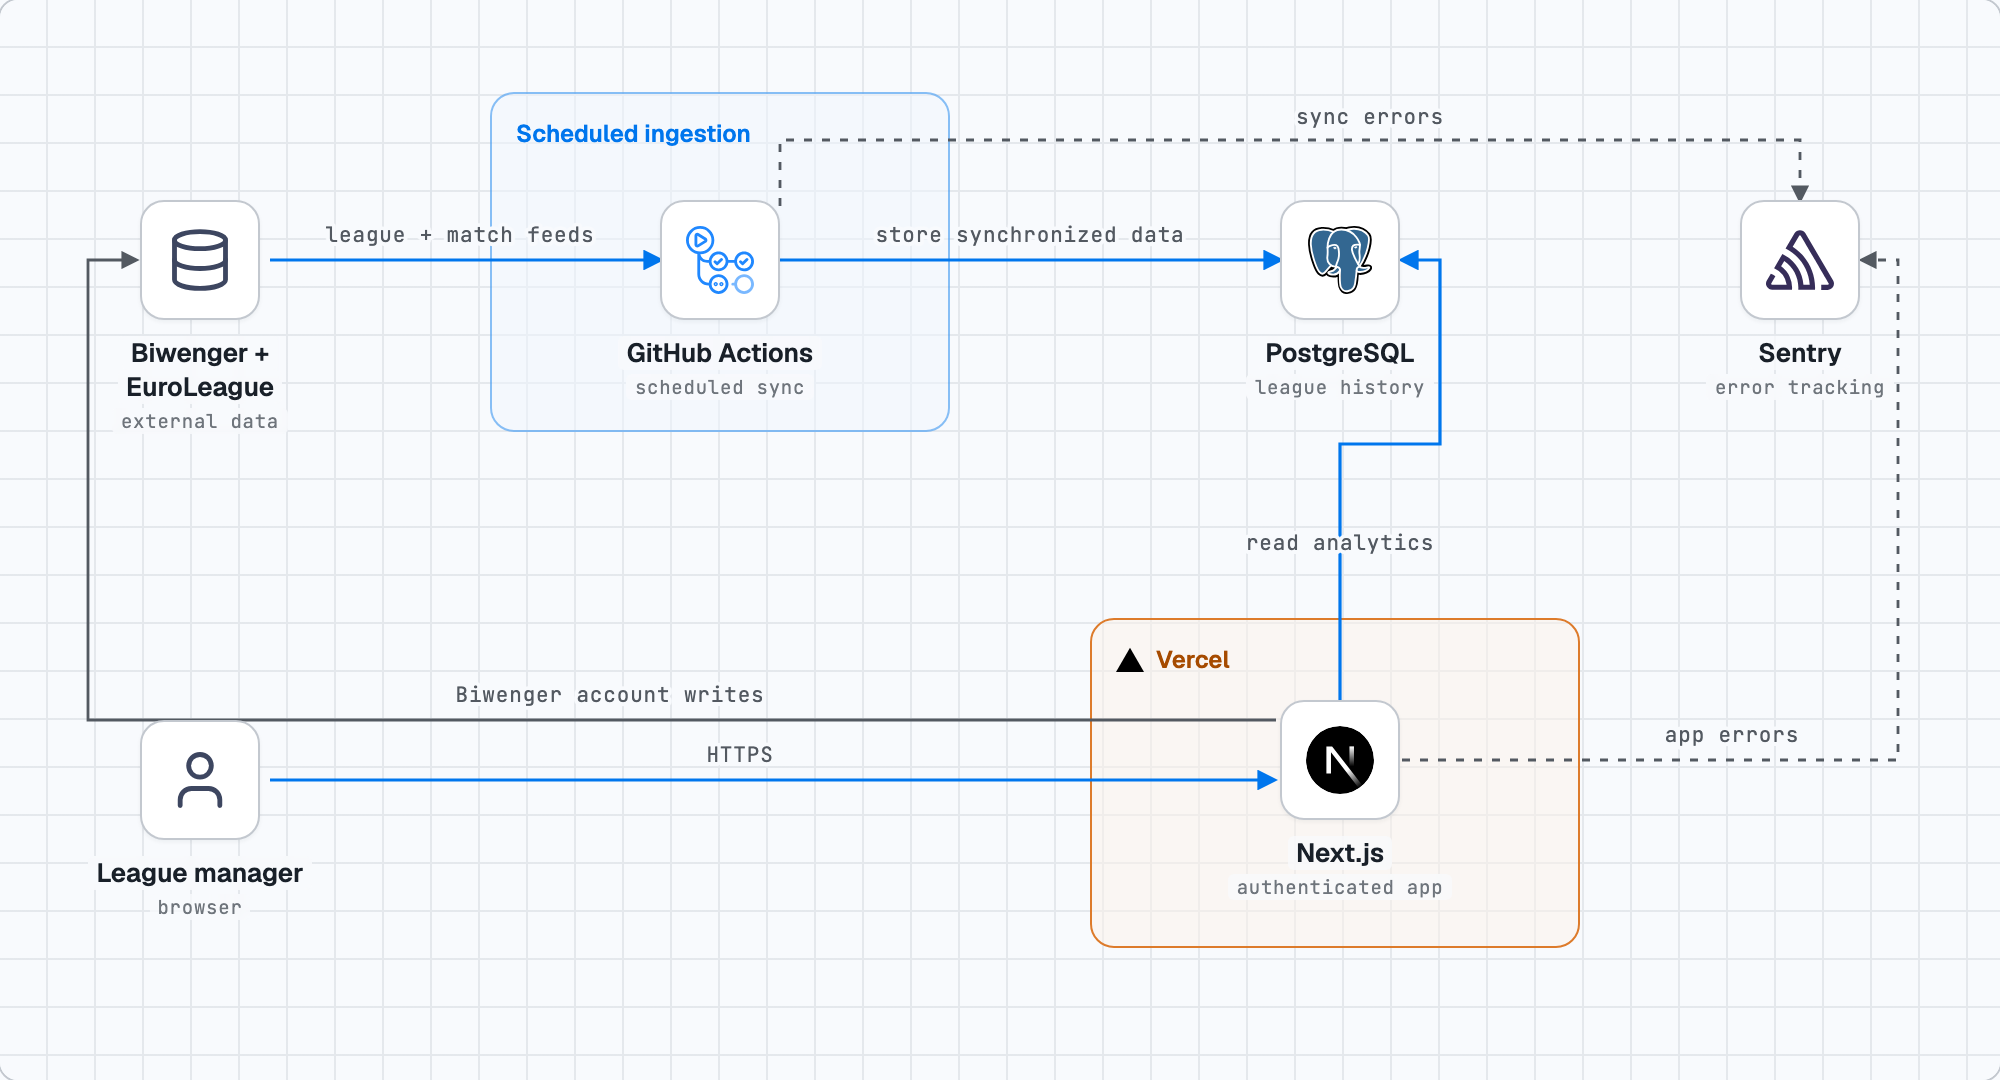
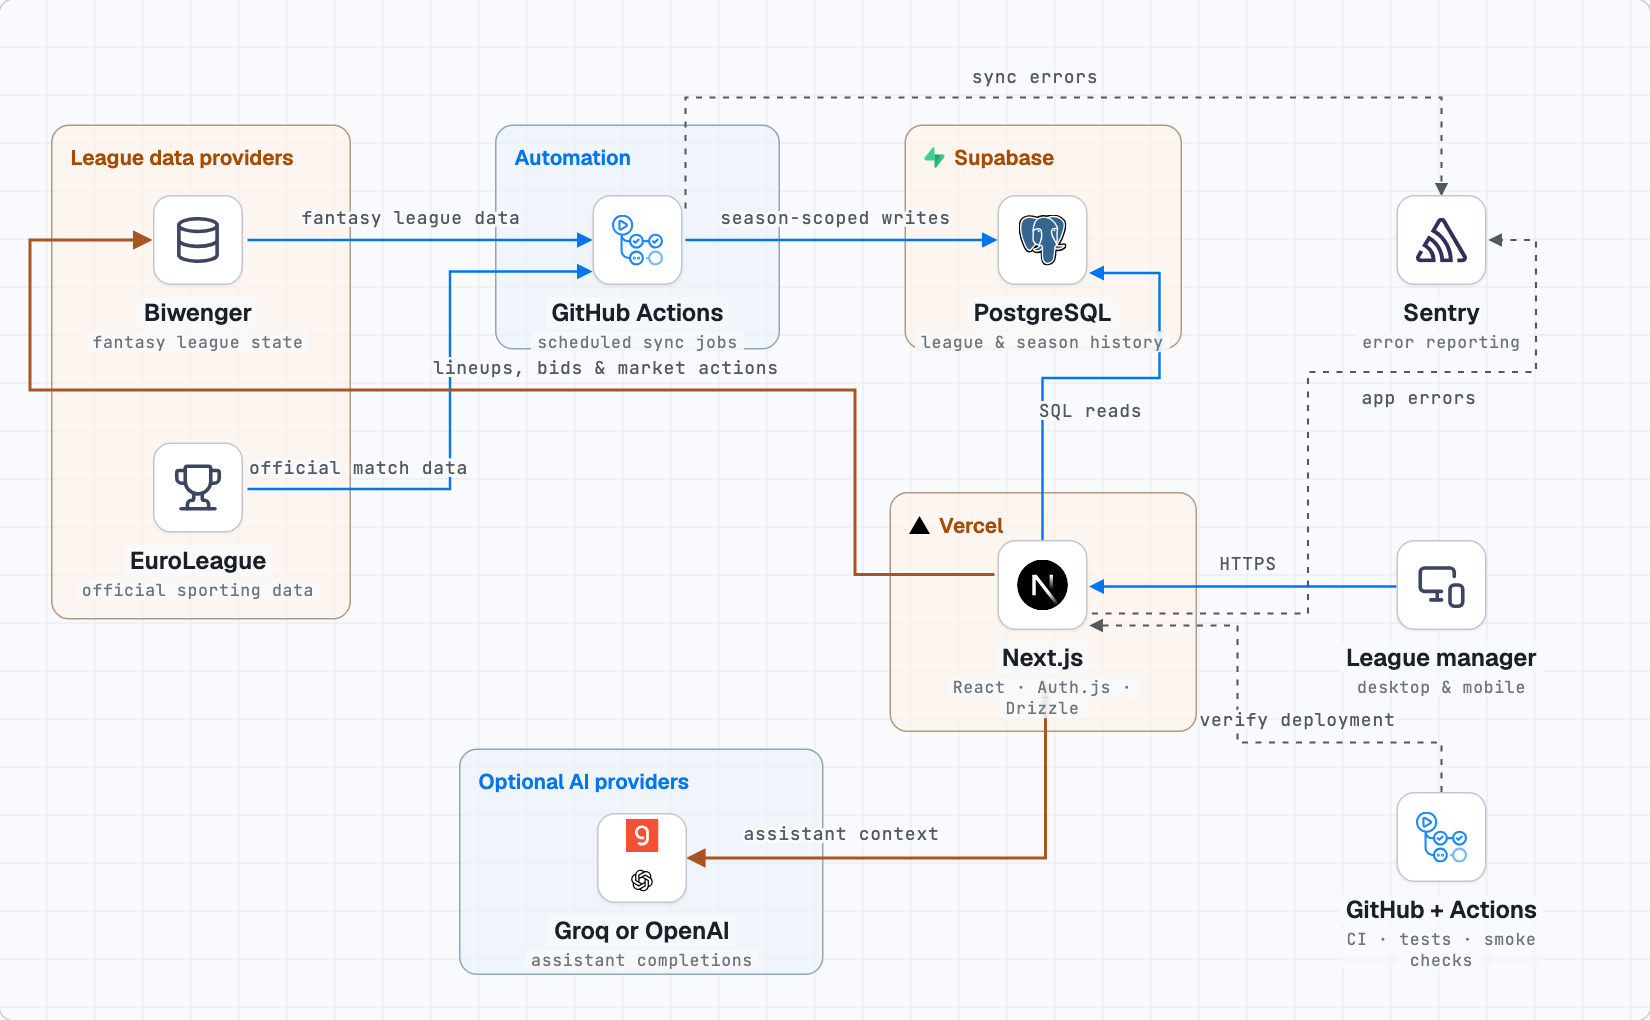
Showcase the product and full stack in the README

diff --git a/docs/_assets/stack.html b/docs/_assets/stack.html
@@ -3,7 +3,7 @@
 <head>
 <meta charset="UTF-8">
 <meta name="viewport" content="width=device-width, initial-scale=1.0">
-<title>Biwenger Stats stack</title>
+<title>Biwenger Stats · system architecture</title>
 <style>
 /* engineered-paper theme (cool near-white, one accent, mono labels)
  * All colors/fonts flow through the :root tokens — tweak tokens, not scattered values. */
@@ -82,7 +82,7 @@ h1 { font-family: var(--font-display); font-weight: 700; font-size: clamp(22px, 
 
 .scroller { overflow-x: auto; border: 1px solid var(--color-rule-2); border-radius: var(--radius-card); }
 /* CANVAS SIZE: set width/height here AND on svg.edges AND its viewBox — keep the three in sync */
-.canvas { position: relative; width: 1000px; height: 540px; background: var(--color-paper);
+.canvas { position: relative; width: 1100px; height: 680px; background: var(--color-paper);
   background-image:
     linear-gradient(var(--color-rule) 1px, transparent 1px),
     linear-gradient(90deg, var(--color-rule) 1px, transparent 1px);
@@ -127,7 +127,7 @@ h1 { font-family: var(--font-display); font-weight: 700; font-size: clamp(22px, 
 .group.azure.subnet { border:1px solid #A4CBFB; }
 .group.azure.zone { border-color:#FFD965; }
 
-.node { position:absolute; width:132px; text-align:center; }
+.node { position:absolute; width:174px; text-align:center; }
 .tile { width:60px; height:60px; margin:0 auto; border-radius: var(--radius-tile);
   background:#fff; border:1px solid var(--color-rule-2); display:grid; place-items:center;
   box-shadow: 0 1px 2px oklch(24% 0.02 258 / 0.05); transition: border-color .15s cubic-bezier(0.16,1,0.3,1); }
@@ -145,11 +145,11 @@ h1 { font-family: var(--font-display); font-weight: 700; font-size: clamp(22px, 
 .node .name span, .node .role span { background: var(--color-veil); backdrop-filter: blur(1.5px);
   padding: 0 var(--space-xs); border-radius: 3px; -webkit-box-decoration-break: clone; box-decoration-break: clone; }
 
-svg.edges { position:absolute; inset:0; width:1000px; height:540px; pointer-events:none; }
+svg.edges { position:absolute; inset:0; width:1100px; height:680px; pointer-events:none; }
 .e  { stroke: var(--color-accent); stroke-width:1.6; fill:none; }   /* primary flow */
 .n  { stroke: var(--color-neutral); stroke-width:1.4; fill:none; }  /* internal */
 path.aws { stroke: var(--color-ink); stroke-width:1.6; fill:none; }
-.dash { stroke-dasharray:4 5; }                                     /* error reporting */
+.dash { stroke-dasharray:4 5; }                                     /* operations */
 .el { font-family: var(--font-mono); font-size:10.5px; fill: var(--color-neutral);
   paint-order: stroke; stroke: var(--color-paper); stroke-width:4px; stroke-linejoin:round; }  /* halo */
 .el.a { fill: var(--color-accent); }
@@ -166,7 +166,7 @@ path.aws { stroke: var(--color-ink); stroke-width:1.6; fill:none; }
   font-family: var(--font-mono); font-size:10px; color: var(--color-muted); }
 .foot a { color: inherit; text-decoration-color: var(--color-rule-2); text-underline-offset: 2px; }
 .foot a:hover { color: var(--color-accent); }
-</style>
+.tile:has(img+img){gap:3px}.tile:has(img+img) img{width:22px;height:22px}.node .name{font-size:16px}.node .role{font-size:11px}.el{font-size:12px}.g-label{font-size:14px}.secondary{fill:none;stroke:#a95422;stroke-width:2}.canvas{background-size:32px 32px}.group.ga{border-color:#b29a80;background:#fff5e9a8}.group.gb{border-color:#8ea7bc;background:#eaf2f8ad}</style>
 </head>
 <body>
 <div class="page">
@@ -174,7 +174,7 @@ path.aws { stroke: var(--color-ink); stroke-width:1.6; fill:none; }
   <header class="head">
     <div>
       <div class="kicker"><!-- KICKER: e.g. stack-diagram / author / 2026-08 --></div>
-      <h1>Biwenger Stats stack</h1>
+      <h1>Biwenger Stats · system architecture</h1>
     </div>
     <p class="lede"><!-- LEDE: 1-2 short sentences, or delete this <p> --></p>
   </header>
@@ -182,9 +182,12 @@ path.aws { stroke: var(--color-ink); stroke-width:1.6; fill:none; }
   <div class="scroller">
   <div class="canvas">
 
-    <div class="group gb" style="left:245px;top:46px;width:230px;height:170px"><div class="g-label">Scheduled ingestion</div></div>
[1 lines of base64/hex data omitted]
-<svg class="edges" viewBox="0 0 1000 540" aria-hidden="true"><defs>
+    <div class="group ga" style="left:34px;top:83px;width:200px;height:330px"><div class="g-label">League data providers</div></div>
+<div class="group gb" style="left:330px;top:83px;width:190px;height:150px"><div class="g-label">Automation</div></div>
[2 lines of base64/hex data omitted]
+<div class="group gb" style="left:306px;top:499px;width:243px;height:151px"><div class="g-label">Optional AI providers</div></div>
+<svg class="edges" viewBox="0 0 1100 680" aria-hidden="true"><defs>
         <!-- context-stroke inherits the line's color, so theme switches (incl. dark)
              recolor arrowheads automatically. #open is for AWS diagrams -->
         <marker id="ar" viewBox="0 0 10 10" refX="8" refY="5" markerWidth="6.5" markerHeight="6.5" orient="auto-start-reverse">
@@ -194,26 +197,32 @@ path.aws { stroke: var(--color-ink); stroke-width:1.6; fill:none; }
           <path d="M1 1 L9 5 L1 9" fill="none" stroke="context-stroke" stroke-width="1.5"/>
         </marker>
       </defs>
-<path class="e" d="M135 130 H330" marker-end="url(#ar)"/><text class="el" x="230" y="121" text-anchor="middle">league + match feeds</text>
-<path class="e" d="M390 130 H640" marker-end="url(#ar)"/><text class="el" x="515" y="121" text-anchor="middle">store synchronized data</text>
-<path class="e" d="M135 390 H637" marker-end="url(#ar)"/><text class="el" x="370" y="381" text-anchor="middle">HTTPS</text>
-<path class="e" d="M670 350 V222 H720 V130 H701" marker-end="url(#ar)"/><text class="el" x="670" y="275" text-anchor="middle">read analytics</text>
-<path class="n" d="M638 360 H44 V130 H68" marker-end="url(#ar)"/><text class="el" x="305" y="351" text-anchor="middle">Biwenger account writes</text>
-<path class="n dash" d="M390 103 V70 H900 V100" marker-end="url(#ar)"/><text class="el" x="685" y="62" text-anchor="middle">sync errors</text>
-<path class="n dash" d="M701 380 H949 V130 H931" marker-end="url(#ar)"/><text class="el" x="866" y="371" text-anchor="middle">app errors</text>
+<path class="e" d="M165 160 H393" marker-end="url(#ar)"/><text class="el" x="274" y="149" text-anchor="middle">fantasy league data</text>
+<path class="e" d="M165 326 H300 V181 H393" marker-end="url(#ar)"/><text class="el" x="239" y="316" text-anchor="middle">official match data</text>
+<path class="e" d="M457 160 H663" marker-end="url(#ar)"/><text class="el" x="557" y="149" text-anchor="middle">season-scoped writes</text>
+<path class="n dash" d="M457 139 V65 H961 V129" marker-end="url(#ar)"/><text class="el" x="690" y="55" text-anchor="middle">sync errors</text>
+<path class="e" d="M931 391 H728" marker-end="url(#ar)"/><text class="el" x="832" y="380" text-anchor="middle">HTTPS</text>
+<path class="e" d="M695 360 V252 H773 V182 H728" marker-end="url(#ar)"/><text class="el" x="727" y="278" text-anchor="middle">SQL reads</text>
+<path class="secondary" d="M663 383 H570 V260 H20 V160 H99" marker-end="url(#ar)"/><text class="el" x="404" y="249" text-anchor="middle">lineups, bids & market actions</text>
+<path class="n dash" d="M728 409 H872 V248 H1024 V160 H994" marker-end="url(#ar)"/><text class="el" x="946" y="269" text-anchor="middle">app errors</text>
+<path class="secondary" d="M697 456 V572 H460" marker-end="url(#ar)"/><text class="el" x="561" y="560" text-anchor="middle">assistant context</text>
+<path class="n dash" d="M961 528 V495 H825 V417 H728" marker-end="url(#ar)"/><text class="el" x="865" y="484" text-anchor="middle">verify deployment</text>
 </svg>
[15 lines of base64/hex data omitted]
   </div>
   </div>
 
   <div class="legend">
     <span><span class="sw"></span>data and requests</span>
-    <span><span class="sw n"></span>provider writes</span>
+    <span><span class="sw n"></span>external provider calls</span>
     <span><span class="sw n dash"></span>dev / deploy</span>
   </div>
 

diff --git a/README.md b/README.md
@@ -1,46 +1,51 @@
 # Biwenger Stats
 
-Biwenger Stats turns private Biwenger EuroLeague leagues into a place to follow your squad,
-compare managers, and make better-informed fantasy decisions. It combines fantasy league history
-with official EuroLeague results and player data.
+![Biwenger Stats — EuroLeague fantasy analytics](docs/_assets/readme-cover.webp)
 
-![Biwenger Stats desktop dashboard with squad and league metrics from a synthetic league](docs/_assets/dashboard-desktop.png)
+**A fantasy basketball analytics app for private Biwenger EuroLeague leagues.** Follow your squad,
+spot where rivals gain points, and make lineup and market decisions with the league's history and
+official match data in one place.
 
-## What you can do
+[See the app](#product-tour) · [Explore the stack](#stack-and-data-flow) ·
+[How it works](docs/architecture/system-overview.md) · [Documentation](docs/README.md)
 
-- **Follow your league.** Explore standings, round results, captain performance, tournaments, and
-  season trends.
-- **Compare managers and players.** See where a rival gains points, browse player form and value,
-  and explore official match detail.
-- **Manage your squad and market.** Review ownership, transfers, and valuations. A linked personal
-  Biwenger account enables supported lineup and market actions.
-- **Explore beyond the standings.** Try the Hoopgrid trivia game, season predictions, and an
-  optional AI assistant grounded in league data.
+## Stack and data flow
 
-<details>
-<summary>See the mobile manager comparison</summary>
+[![Architecture diagram showing Biwenger and EuroLeague feeding GitHub Actions, season data stored in Supabase PostgreSQL, and the Next.js app on Vercel serving league managers. Linked account actions go back to Biwenger, the optional assistant uses Groq or OpenAI, and sync and app errors can reach Sentry.](docs/_assets/stack.png)](docs/_assets/stack.png)
 
-![Mobile comparison between two managers in a synthetic league](docs/_assets/compare-mobile.png)
+| Flow        | What happens                                                                                                                                                                                             |
+| ----------- | -------------------------------------------------------------------------------------------------------------------------------------------------------------------------------------------------------- |
+| **Ingest**  | GitHub Actions pulls fantasy league state from Biwenger and official match and player statistics from EuroLeague. Sync validates the incoming data and writes it to the configured season in PostgreSQL. |
+| **Read**    | Next.js on Vercel serves responsive React views. Auth.js handles sign-in and server-side data access feeds the dashboard, standings, and comparisons from PostgreSQL.                                    |
+| **Act**     | A linked personal Biwenger account enables lineup updates, bids, and supported market actions. The optional assistant sends league context to the configured Groq or OpenAI provider.                    |
+| **Operate** | GitHub Actions runs CI, browser tests, and deployment smoke checks. Sentry receives application and sync errors where configured. Docker Compose provides a local app, database, and sync worker.        |
 
-</details>
+[Follow a request through the code](docs/architecture/system-overview.md) ·
+[Read the sync runbook](docs/operations/data-sync.md)
 
-## Stack
+## Product tour
 
-![GitHub Actions syncs Biwenger and EuroLeague into PostgreSQL. Next.js on Vercel reads the database and sends account actions to Biwenger. Sync and app errors can reach Sentry.](docs/_assets/stack.png)
+![Biwenger Stats dashboard on desktop next to a manager comparison on mobile, both using a synthetic league](docs/_assets/product-showcase.webp)
 
-GitHub Actions runs scheduled ingestion. PostgreSQL holds the synchronized history, while the
-Next.js app serves it through authenticated views and uses a manager's linked Biwenger account
-for supported writes. The screenshots use synthetic league data.
+- **Track your season.** See standings, points progression, captain performance, tournaments, and
+  head-to-head comparisons.
+- **Scout players and matches.** Explore player form, market value, official box scores, and match
+  detail.
+- **Manage your squad.** Review transfers, ownership, and listings. Link a personal Biwenger account
+  to use supported lineup and market actions.
+- **Explore the league.** Make season predictions, play Hoopgrid, or ask the optional assistant
+  about league data.
+
+[Full desktop dashboard](docs/_assets/dashboard-desktop.png) ·
+[Full mobile comparison](docs/_assets/compare-mobile.png) · [Product map](docs/product/README.md)
 
 ## Explore the repository
 
-- [How it works](docs/architecture/system-overview.md) — a five-minute walkthrough of the app
-  and its data.
-- [Documentation](docs/README.md) — product, architecture, operations, and contracts.
+- [Documentation index](docs/README.md) — architecture, operations, and contracts.
 - [Local development](docs/getting-started/local-development.md) — prerequisites, database setup,
-  and the first login.
-- [Contributing](docs/contributing/README.md) — workflow and focused checks. Coding agents start
-  with [AGENTS.md](AGENTS.md).
+  and first login.
+- [Contributing](docs/contributing/README.md) — workflow and checks. Coding agents start with
+  [AGENTS.md](AGENTS.md).
 
 Report security issues privately. Keep credentials and private league data out of issues and commits.
 

diff --git a/docs/_assets/README.md b/docs/_assets/README.md
@@ -16,3 +16,6 @@ require a raster or vector export.
 The [editable stack diagram](stack.html) is self-contained. After editing it, render its canvas
 with Chromium and replace the [README export](stack.png). The README screenshots use the
 disposable Playwright league on desktop and iPhone.
+
+The README cover uses a generated arena background with project typography. The product collage
+uses the committed desktop and mobile fixtures, which also remain available as full-size images.
